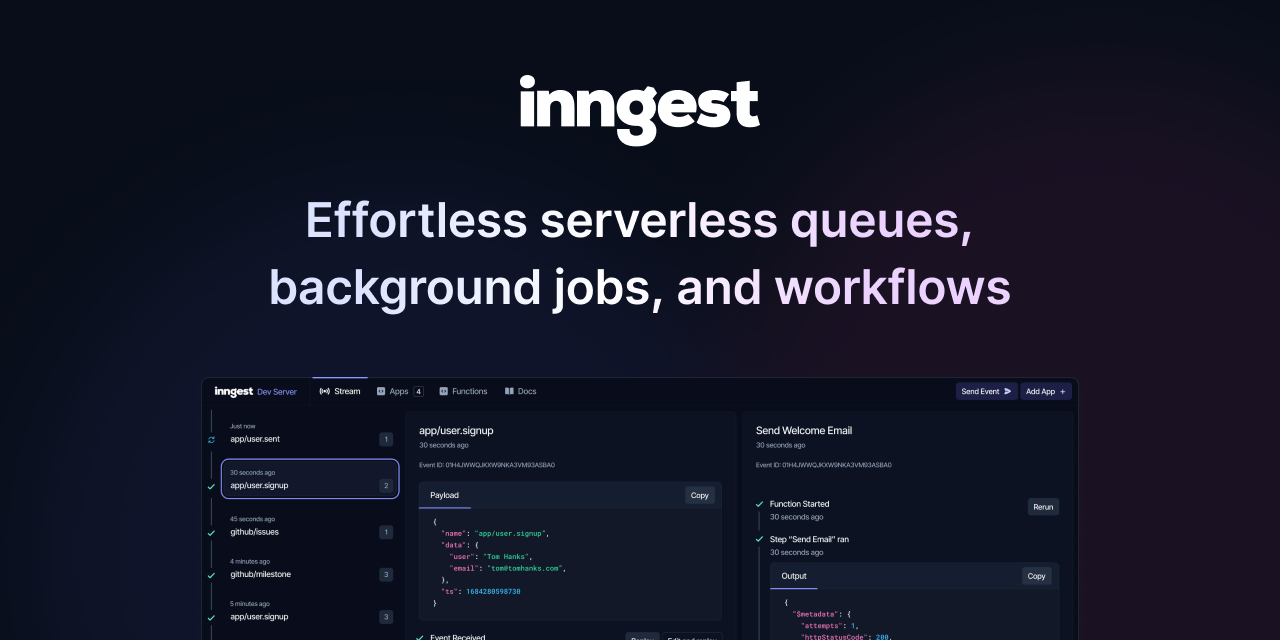
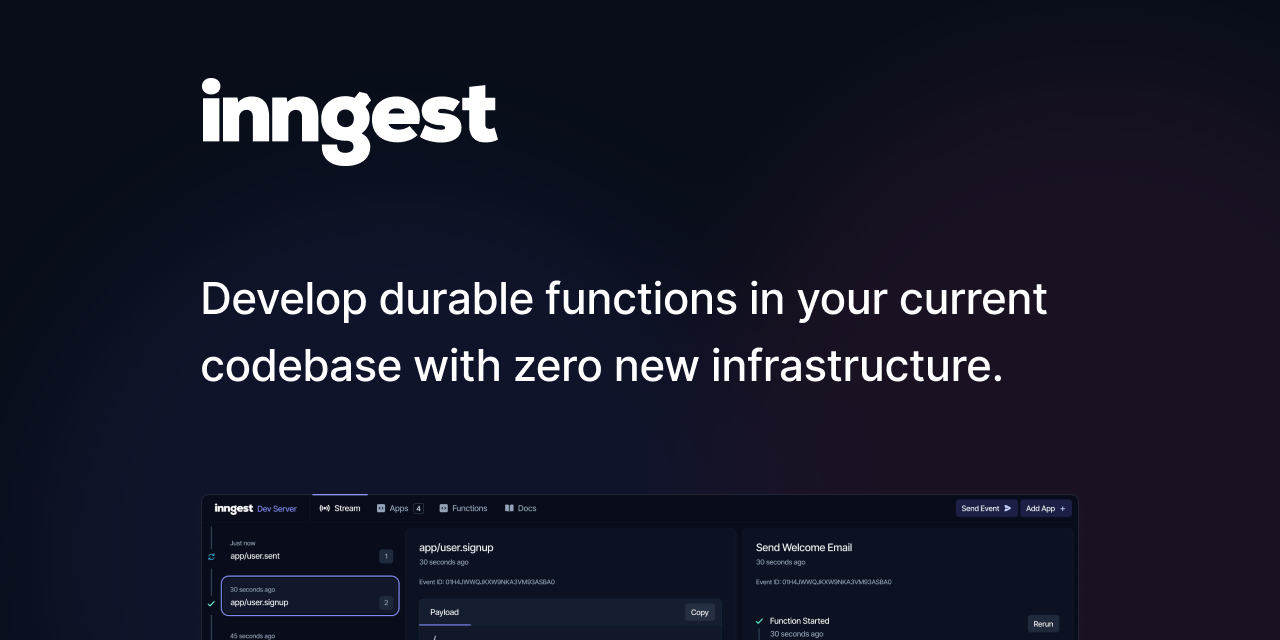
Cleanup. Update metadata, open graph image.

diff --git a/shared/Home/Hero.tsx b/shared/Home/Hero.tsx
@@ -83,42 +83,6 @@ export default function Hero() {
             `}
           />
         </div>
-        {/* <div
-          className={`
-            flex-col relative md:absolute top-0 right-0 z-10
-            flex justify-end items-start
-            w-full
-            md:w-[calc(100%-420px-5rem)] lg:w-[calc(100%-520px-8rem)]
-            max-w-[920px]
-            mt-12 md:mt-24
-            md:translate-y-[5%] lg:translate-y-[-1%] xl:translate-y-[-4%]
-          `}
-          style={{}}
-        >
-          <video
-            src="/assets/homepage/hero/dev-server-mar-2024-pop-open.mp4"
-            muted
-            autoPlay
-            loop
-            className={`
-              relative z-10 self-end
-              w-[90%] xl:w-4/5
-              mr-1
-              origin-top-right
-              rounded-lg shadow-none border border-white/10
-              pointer-events-none`}
-          />
-          <img
-            src="/assets/homepage/hero/agent-function.png"
-            alt="Inngest Function"
-            className={`
-              relative XX-top-12 XXXsm:-top-3 XXXlg:-top-12
-              left-0 z-20
-              translate-y-[-20%] sm:translate-y-[-20%] lg:translate-y-[-40%]
-              w-[42%] md:w-3/5 lg:w-1/2 max-w-3xl min-w-[300px] sm:min-w-0
-              rounded-lg shadow-sm border border-white/10`}
-          />
-        </div> */}
       </Container>
     </div>
   );

diff --git a/pages/index.tsx b/pages/index.tsx
@@ -27,9 +27,9 @@ export async function getStaticProps(): Promise<
     props: {
       designVersion: "2",
       meta: {
-        title: "Build reliable products - Durable workflow engine",
+        title: "Ship reliable products",
         description:
-          "Easily develop serverless workflows in your current codebase, without any new infrastructure. Using Inngest, your entire team can ship reliable products.",
+          "Inngest enables your team to develop durable functions in your current codebase with zero new infrastructure. Develop complex, long-running functions without queues, workers, or additional state management.",
         image: "/assets/homepage/open-graph.png",
       },
     },

diff --git a/shared/Home/LocalDev.tsx b/shared/Home/LocalDev.tsx
@@ -49,17 +49,6 @@ export default function LocalDev({ className }: { className?: string }) {
             </Link>
           </div>
         </div>
-        {/* <img
-          src="/assets/homepage/dev-server-screenshot.jpg"
-          alt="Inngest Dev Server Screenshot"
-          className={`
-          mt-14 w-full
-          rounded-lg shadow-none m-auto scale-80 origin-center
-          pointer-events-none
-          max-w-6xl
-          border border-white/10
-        `}
-        /> */}
         <video
           src="/assets/homepage/video/2024-mar-dev-server-4k.mp4"
           autoPlay
